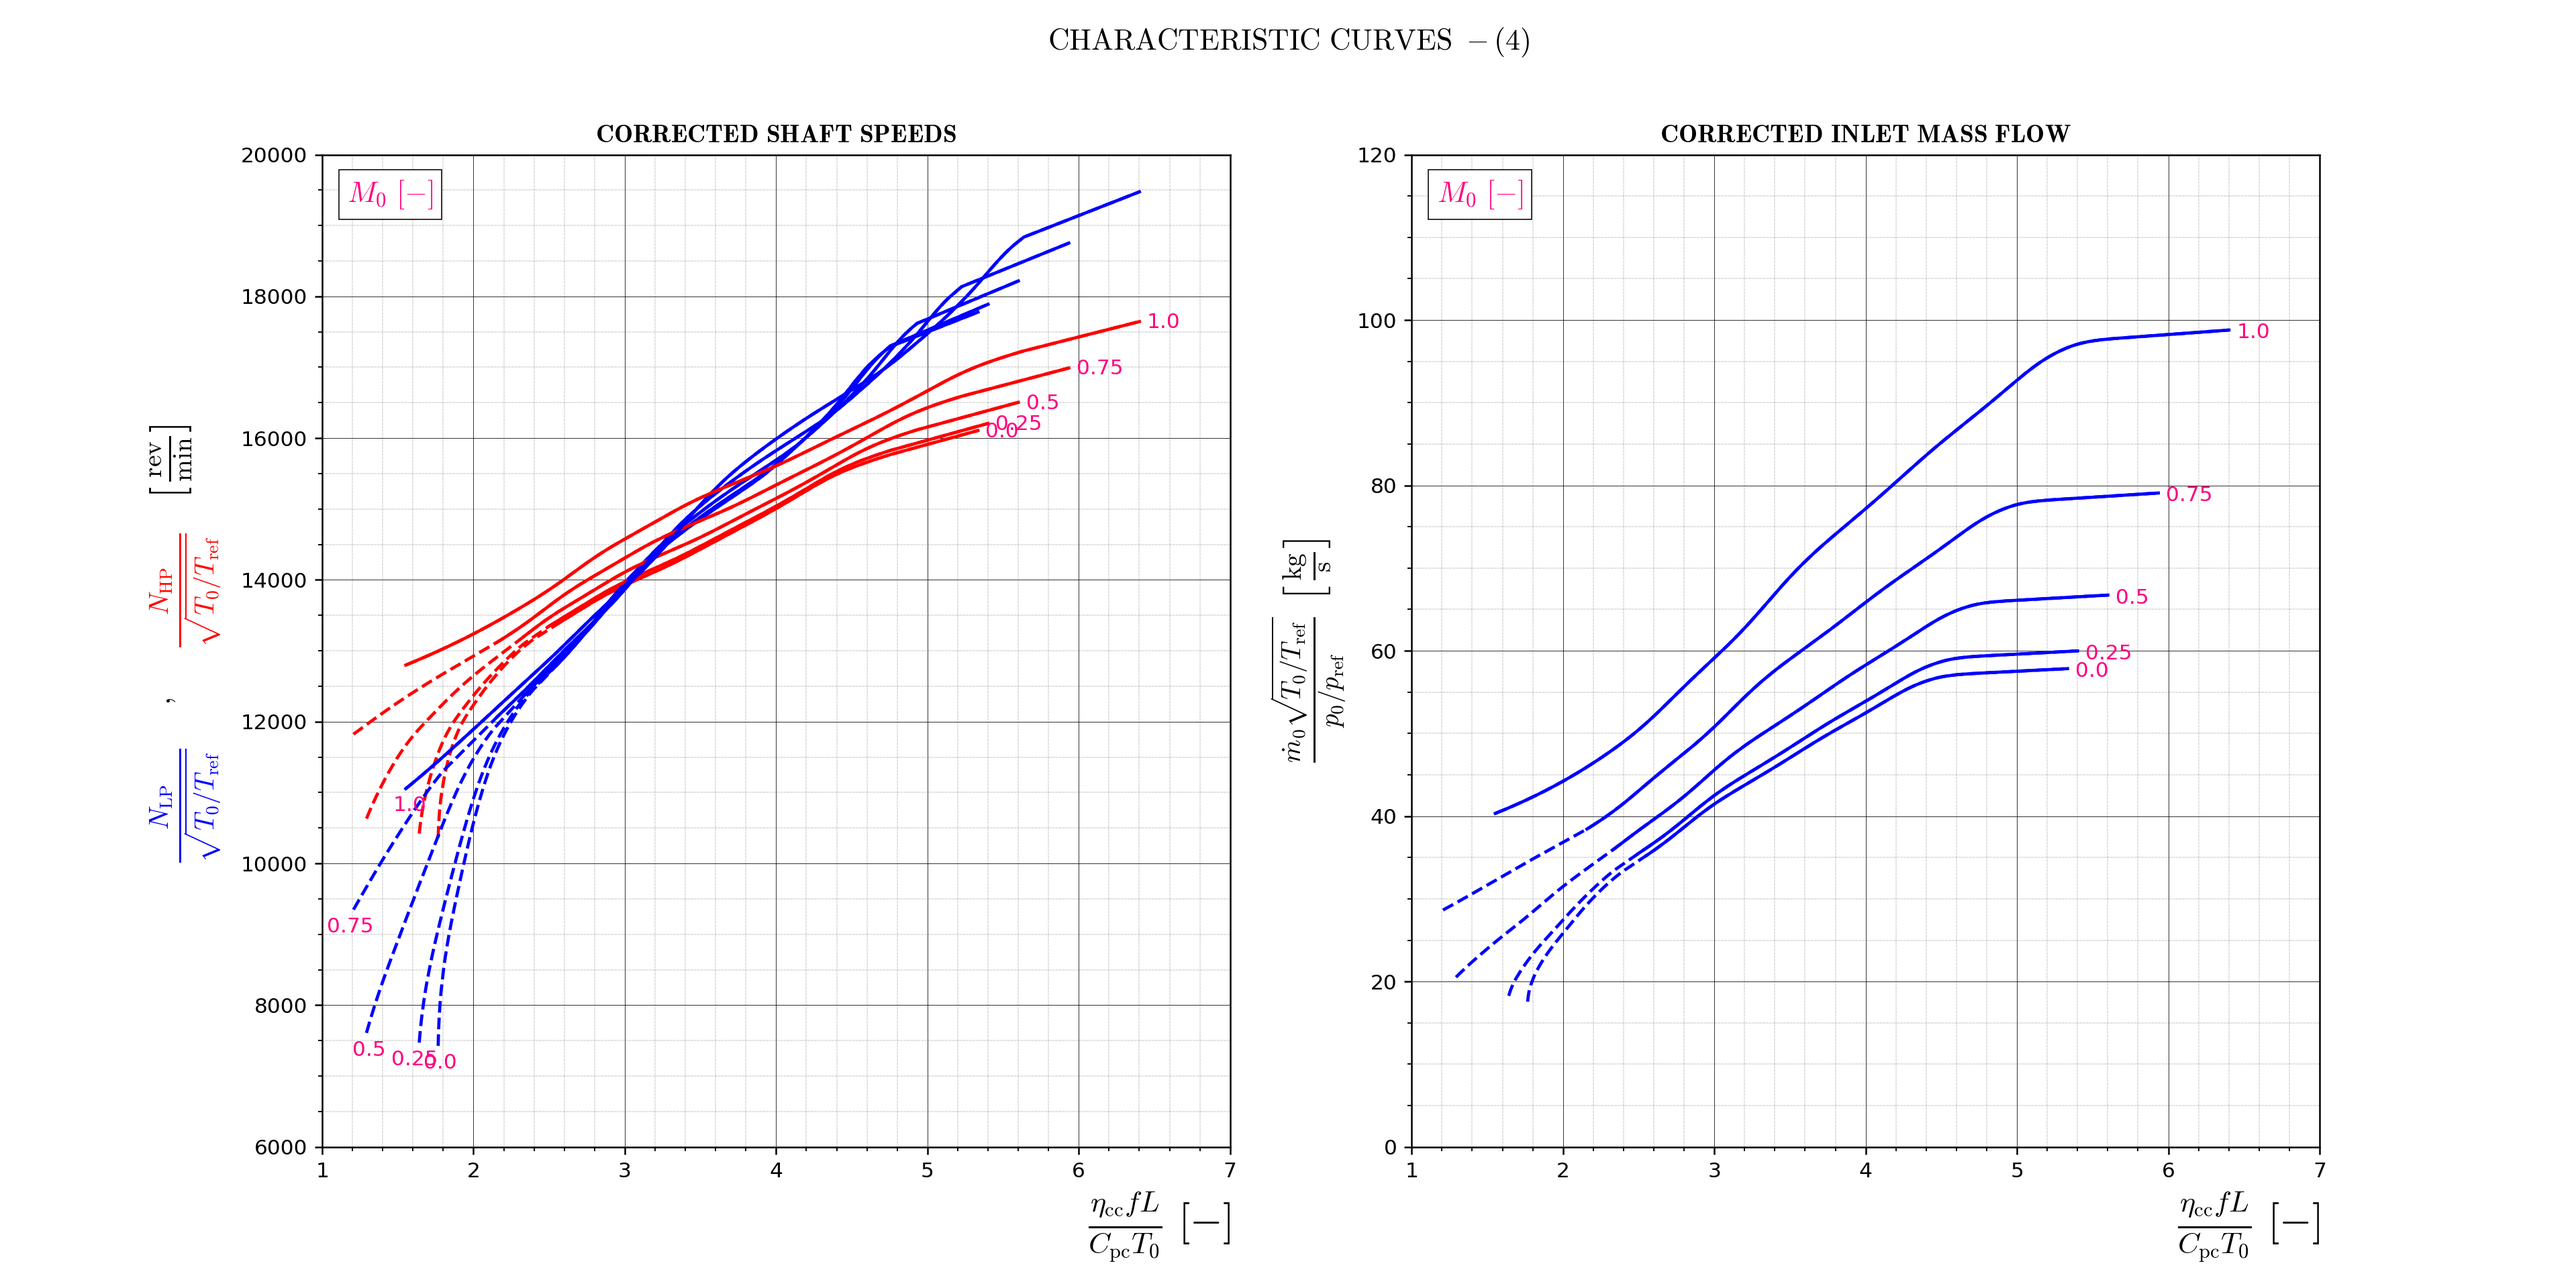
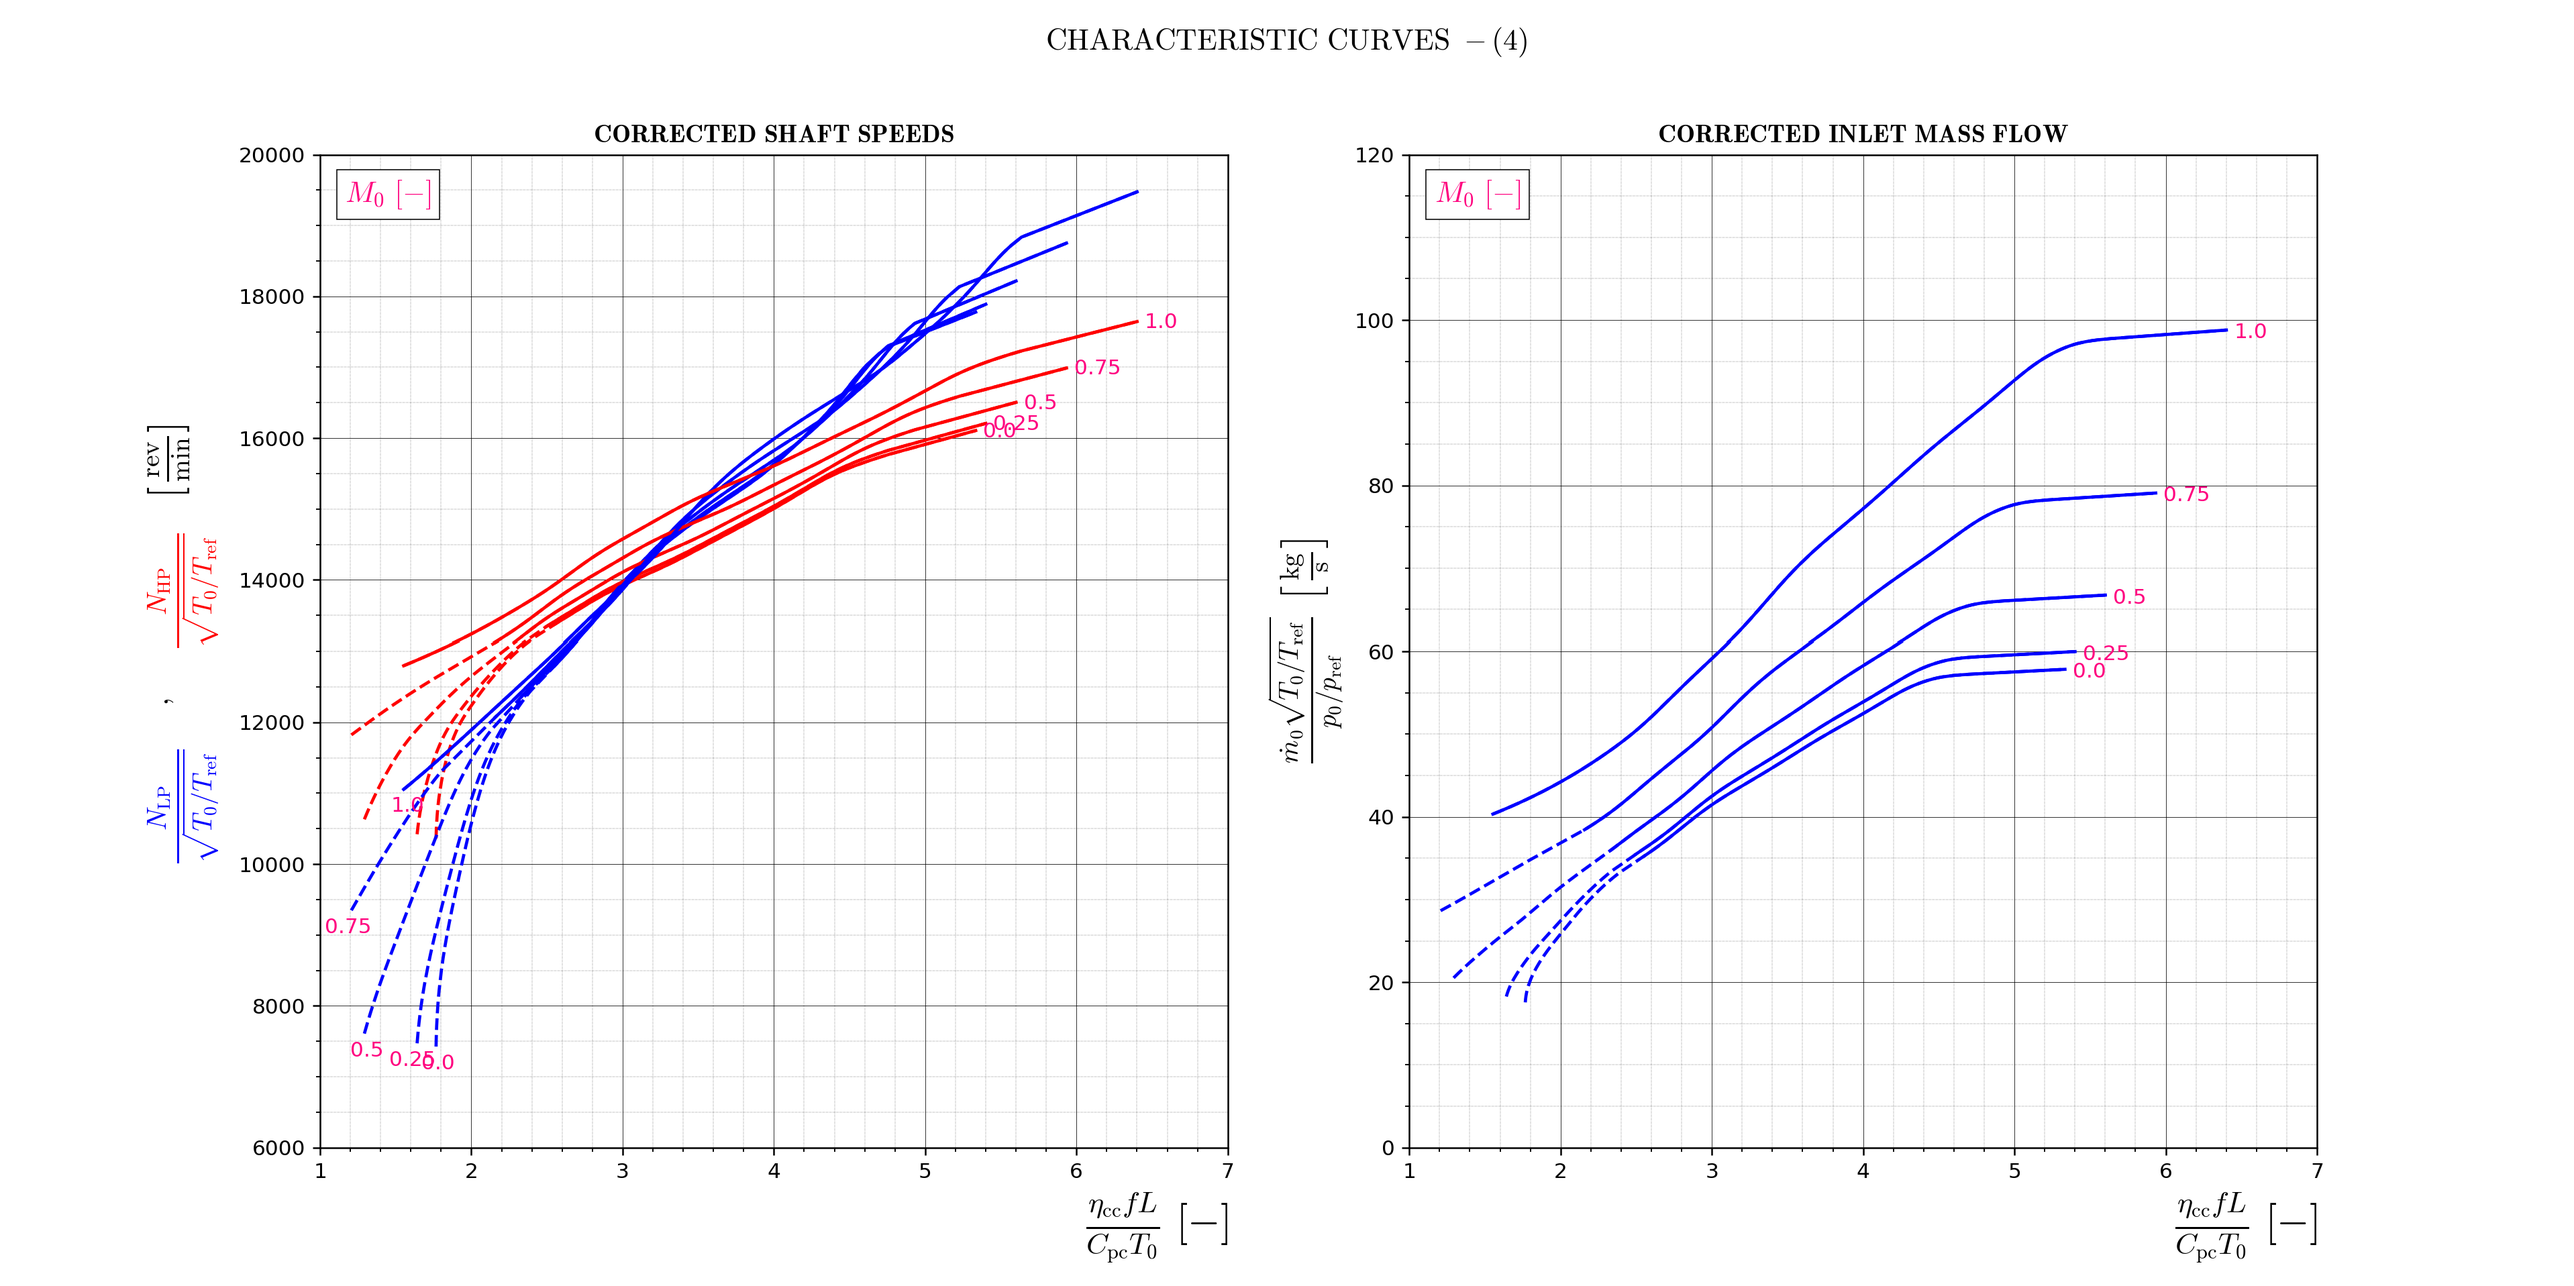
Changes 27/05/2024:
Minor changes considering the plot of the curves of the convergent-divergent nozzle.

diff --git a/EngineCharacterization.py b/EngineCharacterization.py
@@ -177,6 +177,12 @@ shift22 = -0.45
 
 for j in range(Num_Mach):
 
+    if nozzle_type == 'conv-div' and j==4:
+        shift11 = -5.5
+        shift12 = -1
+        shift21 = 0.05
+        shift22 = -1
+
     choke = map["choke"][:,j][~np.isnan(map["choke"][:,j])]
     choke = choke == 1
 
@@ -236,13 +242,32 @@ fig, ax = plt.subplots(1,2, num = 4, figsize = (14,8), edgecolor = 'k')
 plt1 = plt.subplot(1,2,1) 
 plt2 = plt.subplot(1,2,2)   
 
-pos = -1
-halign = 'left'
-valign = 'bottom'
-shift11 = -2
-shift12 = 4
-shift21 = 0.05
-shift22 = -5
+
+if nozzle_type == 'conv-div':
+
+    pos1 = 1
+    pos2 = -1
+    halign1 = 'center'
+    valign1 = 'top'
+    halign2 = 'left'
+    valign2 = 'bottom'
+    shift11 = 0
+    shift12 = -4
+    shift21 = 0
+    shift22 = 1
+
+else:
+
+    pos1 = -1
+    pos2 = -1
+    halign1 = 'left'
+    valign1 = 'bottom'
+    halign2 = 'left'
+    valign2 = 'bottom'
+    shift11 = -2
+    shift12 = 4
+    shift21 = 0.05
+    shift22 = 5
 
 for j in range(Num_Mach):
 
@@ -259,10 +284,10 @@ for j in range(Num_Mach):
     plt2.plot(map["fuelParameter*"][:,j][~np.isnan(map["fuelParameter*"][:,j])][choke],map["Isp*"][:,j][~np.isnan(map["Isp*"][:,j])][choke],\
     color="b")
 
-    plt1.text(map["m0"][:,j][~np.isnan(map["m0"][:,j])][pos]+shift11,map["Isp*"][:,j][~np.isnan(map["Isp*"][:,j])][pos]+shift12,\
-    str(M0[j]),color='#FF007F',size=10,horizontalalignment=halign,verticalalignment=valign)
-    plt2.text(map["fuelParameter*"][:,j][~np.isnan(map["fuelParameter*"][:,j])][pos]+shift21,map["Isp*"][:,j][~np.isnan(map["Isp*"][:,j])][pos]+shift22,\
-    str(M0[j]),color='#FF007F',size=10,horizontalalignment=halign,verticalalignment=valign)
+    plt1.text(map["m0"][:,j][~np.isnan(map["m0"][:,j])][pos1]+shift11,map["Isp*"][:,j][~np.isnan(map["Isp*"][:,j])][pos1]+shift12,\
+    str(M0[j]),color='#FF007F',size=10,horizontalalignment=halign1,verticalalignment=valign1)
+    plt2.text(map["fuelParameter*"][:,j][~np.isnan(map["fuelParameter*"][:,j])][pos2]+shift21,map["Isp*"][:,j][~np.isnan(map["Isp*"][:,j])][pos2]+shift22,\
+    str(M0[j]),color='#FF007F',size=10,horizontalalignment=halign2,verticalalignment=valign2)
     
 plt1.set_title(r"$\bf{SPECIFIC \ IMPULSE}$", fontsize = 12)
 plt2.set_title(r"$\bf{SPECIFIC \ IMPULSE}$", fontsize = 12)
@@ -310,6 +335,9 @@ shift11 = 0
 shift12 = -200
 shift21 = 0.05
 shift22 = -50
+
+if nozzle_type == 'conv-div':
+    shift22 = -100
 
 for j in range(Num_Mach):
 
@@ -483,6 +511,10 @@ shift211 = 0
 shift221 = 0.22
 shift222 = -0.1
 
+if nozzle_type == "conv-div":
+    shift121 = 0
+    shift122 = 0.075
+
 for j in range(Num_Mach):
 
     choke = map["choke"][:,j][~np.isnan(map["choke"][:,j])]
@@ -519,13 +551,18 @@ for j in range(Num_Mach):
     plt2.plot(map["fuelParameter*"][:,j][~np.isnan(map["fuelParameter*"][:,j])][choke],map["T4tT0"][:,j][~np.isnan(map["T4tT0"][:,j])][choke],
     color="r")
 
-    plt1.text(map["fuelParameter*"][:,j][~np.isnan(map["fuelParameter*"][:,j])][pos11]+shift111,map["p9p0"][:,j][~np.isnan(map["p9p0"][:,j])][pos11]+shift112,\
+    if nozzle_type != "conv-div":
+        plt1.text(map["fuelParameter*"][:,j][~np.isnan(map["fuelParameter*"][:,j])][pos11]+shift111,\
+        map["p9p0"][:,j][~np.isnan(map["p9p0"][:,j])][pos11]+shift112,\
     str(M0[j]),color='#FF007F',size=10,horizontalalignment=halign11,verticalalignment=valign11)
-    plt1.text(map["fuelParameter*"][:,j][~np.isnan(map["fuelParameter*"][:,j])][pos12]+shift121,map["T9T0"][:,j][~np.isnan(map["T9T0"][:,j])][pos12]+shift122,\
+    plt1.text(map["fuelParameter*"][:,j][~np.isnan(map["fuelParameter*"][:,j])][pos12]+shift121,\
+    map["T9T0"][:,j][~np.isnan(map["T9T0"][:,j])][pos12]+shift122,\
     str(M0[j]),color='#FF007F',size=10,horizontalalignment=halign12,verticalalignment=valign12)
-    plt2.text(map["fuelParameter*"][:,j][~np.isnan(map["fuelParameter*"][:,j])][pos21]+shift211,map["OPR"][:,j][~np.isnan(map["OPR"][:,j])][pos21]+shift212,\
+    plt2.text(map["fuelParameter*"][:,j][~np.isnan(map["fuelParameter*"][:,j])][pos21]+shift211,\
+    map["OPR"][:,j][~np.isnan(map["OPR"][:,j])][pos21]+shift212,\
     str(M0[j]),color='#FF007F',size=10,horizontalalignment=halign2,verticalalignment=valign2)
-    plt2.text(map["fuelParameter*"][:,j][~np.isnan(map["fuelParameter*"][:,j])][pos22]+shift221,map["T4tT0"][:,j][~np.isnan(map["T4tT0"][:,j])][pos22]+shift222,\
+    plt2.text(map["fuelParameter*"][:,j][~np.isnan(map["fuelParameter*"][:,j])][pos22]+shift221,\
+    map["T4tT0"][:,j][~np.isnan(map["T4tT0"][:,j])][pos22]+shift222,\
     str(M0[j]),color='#FF007F',size=10,horizontalalignment=halign2,verticalalignment=valign2)
 
 plt1.set_title(r"$\bf{INLET/OUTLET \ PRESSURE \ AND \ TEMPERATURE \ RATIO}$", fontsize = 12)
@@ -579,16 +616,31 @@ fig, ax = plt.subplots(1,2, num = 8, figsize = (14,8), edgecolor = 'k')
 plt1 = plt.subplot(1,2,1) 
 plt2 = plt.subplot(1,2,2)
 
-pos1 = 1
-pos2 = -1
-halign1 = 'center'
-valign1 = 'top'
-halign2 = 'left'
-valign2 = 'bottom'
-shift11 = 0
-shift12 = -0.005
-shift21 = 0
-shift22 = 0
+if nozzle_type == 'conv-div':
+
+    pos1 = -1
+    pos2 = -1
+    halign1 = 'left'
+    valign1 = 'bottom'
+    halign2 = 'left'
+    valign2 = 'center'
+    shift11 = 0.05
+    shift12 = -0.025
+    shift21 = 0.05
+    shift22 = 0
+
+else:
+
+    pos1 = 1
+    pos2 = -1
+    halign1 = 'center'
+    valign1 = 'top'
+    halign2 = 'left'
+    valign2 = 'bottom'
+    shift11 = 0
+    shift12 = -0.005
+    shift21 = 0
+    shift22 = 0
 
 for j in range(Num_Mach):
 
@@ -662,11 +714,11 @@ elif nozzle_type == "conv-div":
     plt1.set_xlim(1,7)
     plt2.set_xlim(1,7)
 
-    plt1.set_ylim(0.4,1.1)
-    plt2.set_ylim(0.25,2)
+    plt1.set_ylim(0,2.5)
+    plt2.set_ylim(1,2)
 
     plt1.set_xlabel(r"$ \frac{\eta_{\rm cc}fL}{C_{\rm pc}T_{\rm 0}} \ [-]$",loc='right',fontsize=20)
-    plt1.set_ylabel(r"$M_{9} \ [-]$",loc='right',fontsize=16)
+    plt1.set_ylabel(r"$M_{9} \ [-]$",loc='center',fontsize=16)
     
     plt2.set_xlabel(r"$ \frac{\eta_{\rm cc}fL}{C_{\rm pc}T_{\rm 0}} \ [-]$",loc='right',fontsize=20)
     plt2.set_ylabel(r"$\frac{A_{9}}{A_{8}} \ [-]$",loc='center',fontsize=18)
